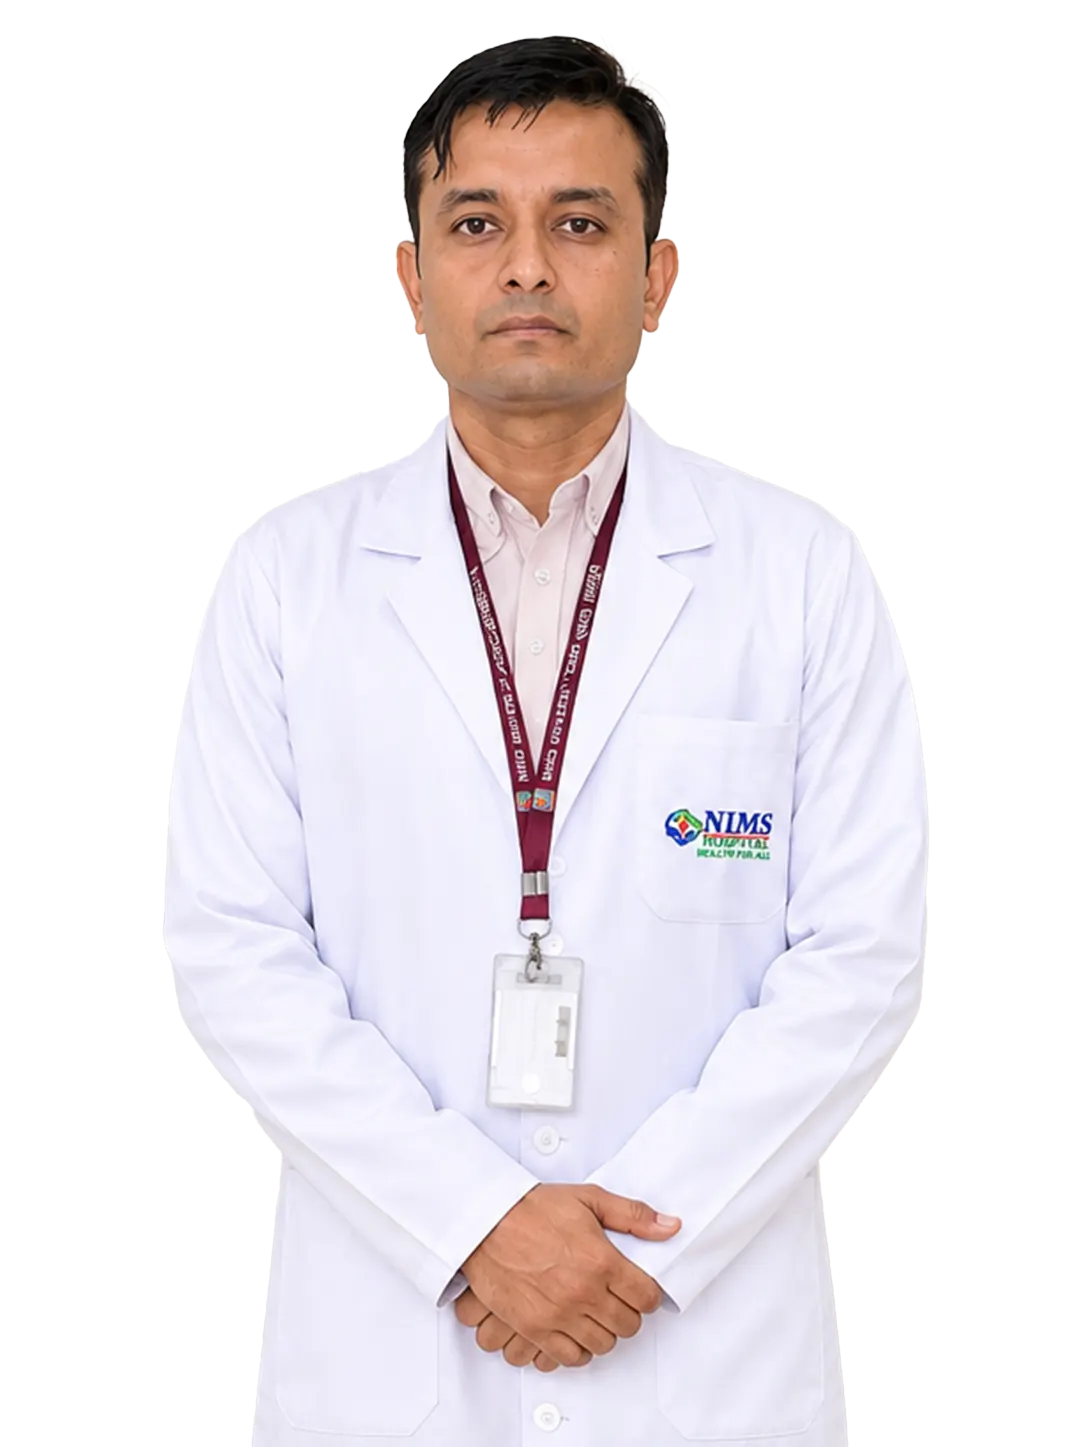
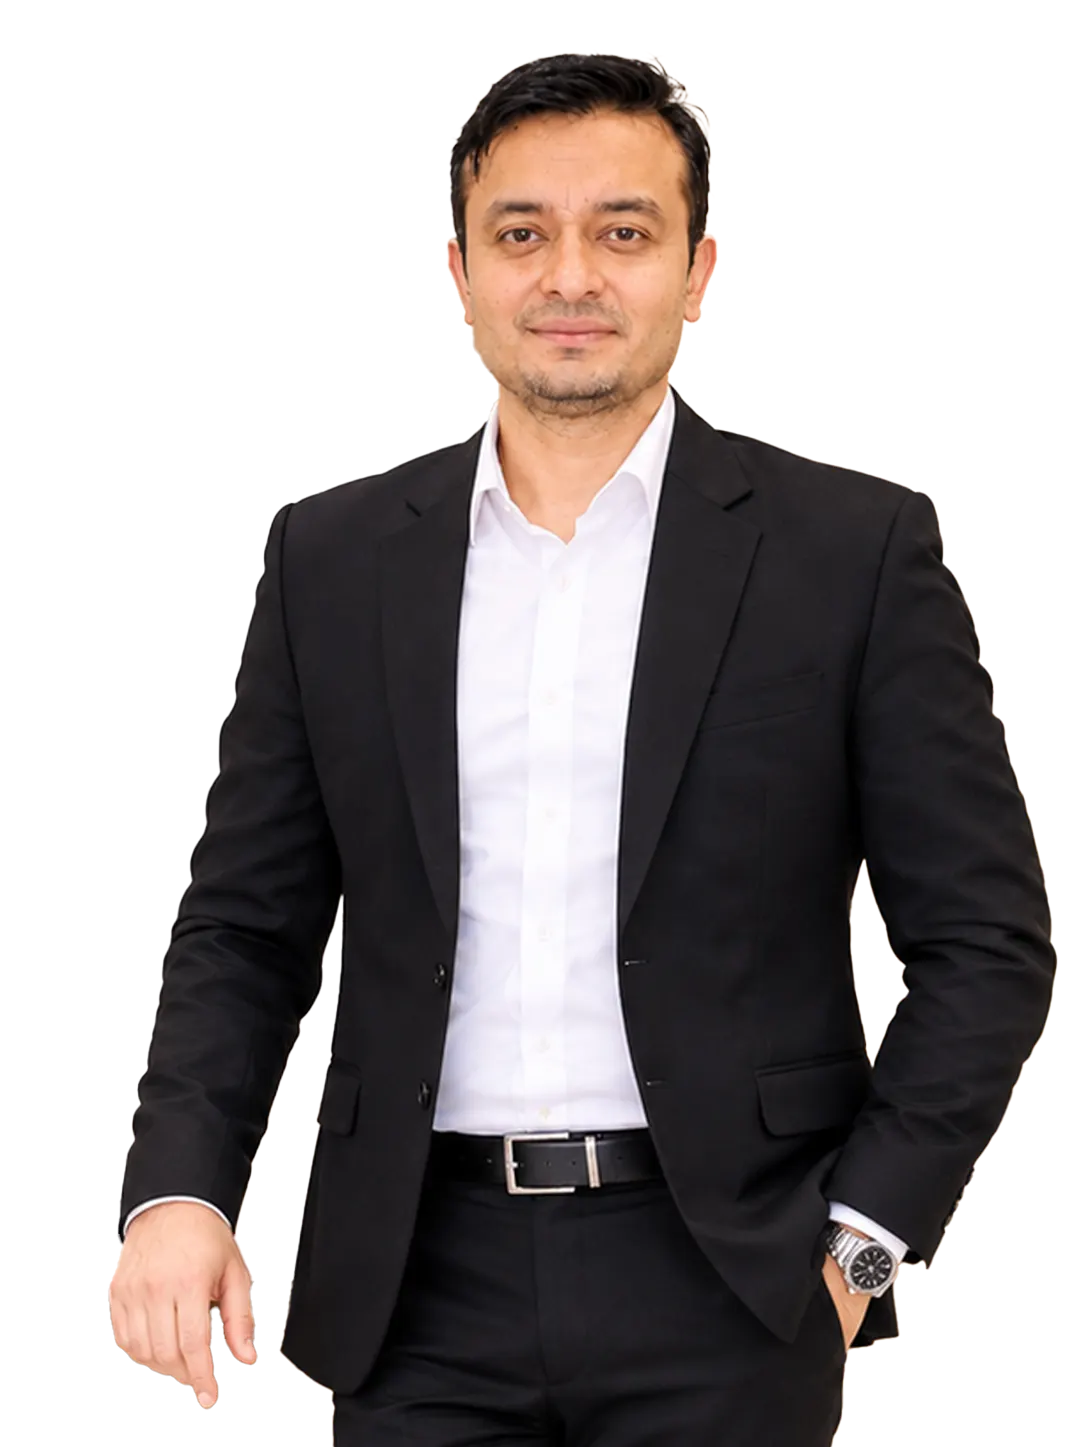
hero section updated

diff --git a/index.html b/index.html
@@ -1773,13 +1773,13 @@
                                                         <path d="M5 12h14m-6-6 6 6-6 6"></path>
                                                  </svg></span></span>
                             </button> -->
-                            <!-- <button aria-controls="mentor-dialog" aria-expanded="false" aria-haspopup="dialog" aria-label="View profile: Dr. Khushbu Khan" class="faculty-person mentor-person" data-faculty="rahul-tambi" data-mentor="17" data-profile-src="images/sandeep-sharma-nur-facu.webp" type="button">
+                            <button aria-controls="mentor-dialog" aria-expanded="false" aria-haspopup="dialog" aria-label="View profile: Dr. Khushbu Khan" class="faculty-person mentor-person" data-faculty="rahul-tambi" data-mentor="17" data-profile-src="images/sandeep-sharma-nur-facu.webp" type="button">
                                    <span aria-hidden="true" class="faculty-panel"></span>
                                    <img alt="Mr. Sandeep Sharma" decoding="async" height="1536" loading="lazy" src="images/sandeep-sharma-nur-facu.webp" width="1024">
                                    <span class="faculty-caption"><strong>Mr. Sandeep Sharma</strong><span>Assistant Professor</span><span class="faculty-more">Click to know more <svg aria-hidden="true" viewBox="0 0 24 24">
                                                         <path d="M5 12h14m-6-6 6 6-6 6"></path>
                                                  </svg></span></span>
-                            </button> -->
+                            </button>
                             
                             
                      </div>
@@ -1895,7 +1895,7 @@
                                                  <button aria-label="View Mr. Sandeep Kalirawqana" aria-pressed="false" data-mentor-thumb="14" type="button"><img alt="Mr. Sandeep Kalirawqana" height="1536" loading="lazy" src="images/sandeep-kalrawana-nur-facu.webp" width="1024"></button>
                                                  <!-- <button aria-label="View Mr. Aneesh" aria-pressed="false" data-mentor-thumb="15" type="button"><img alt="Mr. Aneesh" height="1536" loading="lazy" src="images/aneesh-thomas-nur-facu.webp" width="1024"></button> -->
                                                  <!-- <button aria-label="View Dr. Ashutosh Mishra" aria-pressed="false" data-mentor-thumb="16" type="button"><img alt="Dr. Ashutosh Mishra" height="1536" loading="lazy" src="images/dr-ashutosh-mishra.webp" width="1024"></button> -->
-                                                 <!-- <button aria-label="View Mr. Sandeep Sharma" aria-pressed="false" data-mentor-thumb="17" type="button"><img alt="Mr. Sandeep Sharma" height="1536" loading="lazy" src="images/sandeep-sharma-nur-facu.webp" width="1024"></button> -->
+                                                 <button aria-label="View Mr. Sandeep Sharma" aria-pressed="false" data-mentor-thumb="17" type="button"><img alt="Mr. Sandeep Sharma" height="1536" loading="lazy" src="images/sandeep-sharma-nur-facu.webp" width="1024"></button>
                                                  <!-- <button aria-label="View Dr. Rishika Khandelwal" aria-pressed="false" data-mentor-thumb="18" type="button"><img alt="Dr. Rishika Khandelwal" height="1536" loading="lazy" src="images/dr-rishika-khandelwal.webp" width="1024"></button>
                                                  <button aria-label="View Dr. Saba Parveen Qazi" aria-pressed="false" data-mentor-thumb="19" type="button"><img alt="Dr. Saba Parveen Qazi" height="1536" loading="lazy" src="images/dr-saba-parveen-qazi.webp" width="1024"></button>
                                                  <button aria-label="View Dr. Pratiksha Rajpurohit" aria-pressed="false" data-mentor-thumb="20" type="button"><img alt="Dr. Pratiksha Rajpurohit" height="1536" loading="lazy" src="images/shivam-singh.webp" width="1024"></button>

diff --git a/js/script.js b/js/script.js
@@ -339,26 +339,26 @@ const facultyProfiles = [
   //   "sourceRow": 16,
   //   "generated": true
   // },
-  // {
-  //   "id": "prachi-kumari",
-  //   "name": "Mr. Sandeep Sharma",
-  //   "role": "Assistant Professor",
-  //   "qualification": "M.Sc. Nursing/ PAED",
-  //   "specialisation": "Child Health Nursing",
-  //   "experience": "14.5",
-  //   "metrics": [
-  //     { "label": "Publications (Present University)", "value": "" },
-  //     { "label": "Overall Publications", "value": "" }
-  //   ],
-  //   "achievement": "5",
-  //   "research": "5",
-  //   "joined": "26/10/2026",
-  //   "appointment": "Permanent",
-  //   "department": "Nims Nursing College",
-  //   "portrait": "images/sandeep-sharma-nur-facu.webp",
-  //   "sourceRow": 14,
-  //   "generated": true
-  // }
+  {
+    "id": "prachi-kumari",
+    "name": "Mr. Sandeep Sharma",
+    "role": "Assistant Professor",
+    "qualification": "M.Sc. Nursing/ PAED",
+    "specialisation": "Child Health Nursing",
+    "experience": "14.5",
+    "metrics": [
+      { "label": "Publications (Present University)", "value": "" },
+      { "label": "Overall Publications", "value": "" }
+    ],
+    "achievement": "5",
+    "research": "5",
+    "joined": "26/10/2026",
+    "appointment": "Permanent",
+    "department": "Nims Nursing College",
+    "portrait": "images/sandeep-sharma-nur-facu.webp",
+    "sourceRow": 14,
+    "generated": true
+  }
 ];
 
 
